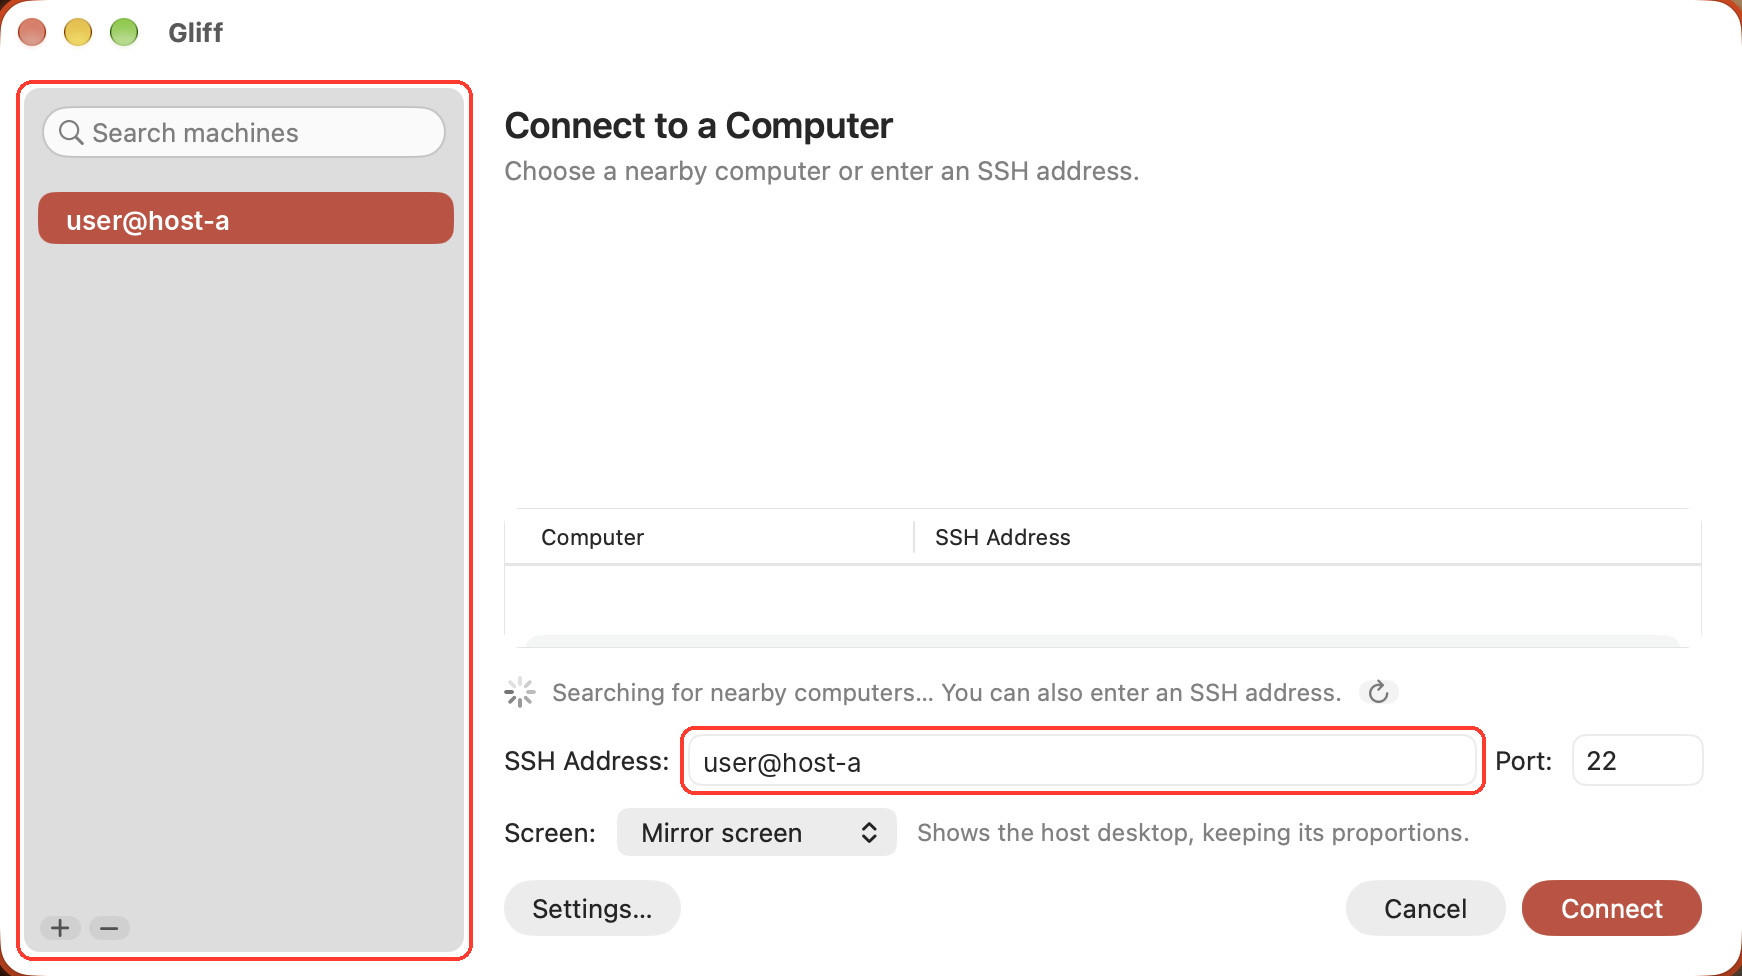
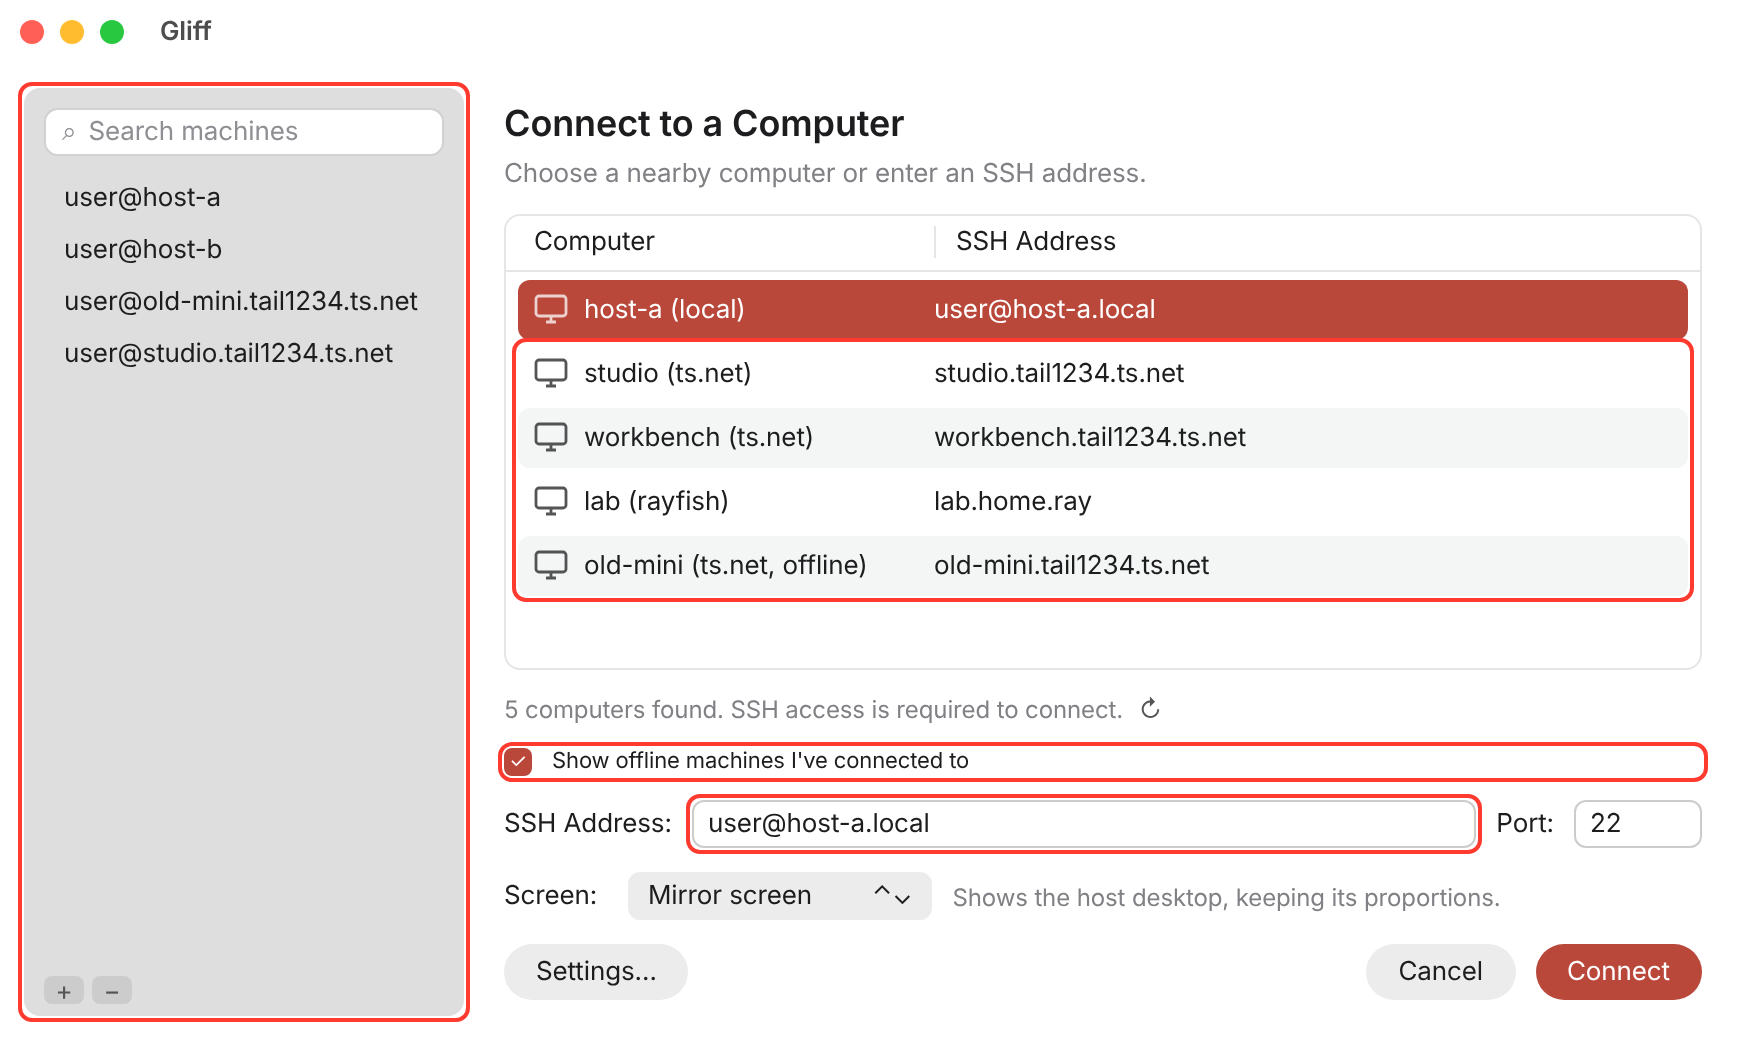
docs: redraw the connection and Settings window images
Rendered HTML mockups (docs/images/src) matching Gliff.swift, with
placeholder machines, replace the older screenshots: mesh peers and
the show-offline checkbox; Connect, Host speakers, Command line and
General in Settings. Captions updated in README and ForkNews.

Claude-Session: https://claude.ai/code/session_01G4VLoM6hjvYsFPeoe3rMWg

diff --git a/docs/images/src/settings-window.html b/docs/images/src/settings-window.html
@@ -1,0 +1,67 @@
+<!doctype html>
+<!-- settings-window.html v1.0.0 — the Mac Settings window, drawn to match
+     SettingsWindow in native/Gliff.swift, for a placeholder machine.
+     Outlined: Connect, Reconnect, Host speakers, the Command line section,
+     and General ▸ Quit Gliff when its last window closes.
+     Render: render.py settings-window.html ../macos-settings-reconnect.png 784 780 -->
+<html><head><meta charset="utf-8"><link rel="stylesheet" href="window.css">
+<style>
+  .sidebar { top: 44px; }
+  .form { position: absolute; left: 252px; right: 20px; top: 52px; bottom: 16px; display: flex; flex-direction: column; gap: 13px; }
+  .header { display: flex; align-items: center; }
+  .header h1 { font-size: 17px; font-weight: 600; flex: 1; }
+  .row .top { display: flex; align-items: center; gap: 8px; }
+  .row .name { width: 120px; text-align: right; }
+  .row .origin { font-size: 11px; color: var(--secondary); white-space: nowrap; }
+  .row .reset { font-size: 11px; font-weight: 600; color: #6e6e73; background: rgba(0,0,0,.06); padding: 1px 7px; border-radius: 5px; }
+  .row .help { margin-left: 128px; font-size: 11px; color: var(--secondary); max-width: 380px; margin-top: 2px; }
+  .note { font-size: 11px; color: var(--secondary); max-width: 480px; }
+  .section-title { font-weight: 600; }
+  .cmd { display: flex; align-items: flex-start; gap: 8px; margin-top: 2px; }
+  .cmd .mono { max-width: 420px; word-break: break-all; }
+  hr { border: none; border-top: .5px solid var(--sep); }
+  .path { font-size: 11px; color: #b0b0b5; }
+</style></head>
+<body><div class="win">
+  <div class="titlebar"><i class="dot" style="background:#ff5f57"></i><i class="dot" style="background:#febc2e"></i><i class="dot" style="background:#28c840"></i><span class="t">Gliff Settings</span></div>
+  <div class="sidebar">
+    <div class="search">⌕ <span>Search machines</span></div>
+    <div class="side-item bold">All Machines</div>
+    <div class="side-item selgray">user@host-a</div>
+    <div class="side-item">user@host-b</div>
+    <div class="side-item">user@old-mini.tail1234.ts.net</div>
+    <div class="side-item">user@studio.tail1234.ts.net</div>
+  </div>
+  <div class="form">
+    <div class="header"><h1>user@host-a</h1><span class="btn" data-hl="connect">Connect</span></div>
+    <div class="secondary" style="font-size:12px;margin-top:-6px">Only this machine. Reset hands an option back to All Machines.</div>
+    <div class="row"><div class="top"><span class="name">Screen</span><span class="popup">Mirror screen <span>⌃⌄</span></span><span class="origin">Default</span></div>
+      <div class="help">Mirror shows the machine's screen; Private makes a separate Linux screen that follows this window.</div></div>
+    <div class="row"><div class="top"><span class="name">Clipboard</span><span class="check on">✓</span><span>Share the clipboard</span><span class="origin">Default</span></div>
+      <div class="help">Copy on one machine and paste on the other. Turn off for machines you do not trust.</div></div>
+    <div class="row" data-hl="reconnect"><div class="top"><span class="name">Reconnect</span><span class="check on">✓</span><span>Reconnect automatically</span><span class="origin">Built-in</span></div>
+      <div class="help">Reopen the machine at launch if it was open at quit, and retry a dropped session. Off, it waits for Reconnect.</div></div>
+    <div class="row" data-hl="speakers"><div class="top"><span class="name">Host speakers</span><span class="check on">✓</span><span>Mute the machine's speakers while I listen</span><span class="origin">Set for this machine</span><span class="reset">Reset</span></div>
+      <div class="help">While Gliff plays the machine's sound, its own speakers stay silent; restored when sound stops or the session ends. Linux hosts with PipeWire.</div></div>
+    <div class="row"><div class="top"><span class="name">Server command</span><span class="field" style="width:250px">~/.local/bin/gliff-server</span><span class="origin">Set for this machine</span><span class="reset">Reset</span></div>
+      <div class="help">Starts the server over SSH, e.g. gliff-server --low-bandwidth. Blank uses the inherited command.</div></div>
+    <div class="note">A screen, host speakers or server command change reconnects the machine; the clipboard and Reconnect change at once. Changes are saved as you make them.</div>
+    <div data-hl="command">
+      <div class="section-title">Command line</div>
+      <div class="note" style="margin-top:6px">Client, from a terminal (logs there)</div>
+      <div class="cmd"><span class="mono">RUST_LOG=info gliff --server-bin '~/.local/bin/gliff-server' --mute-host-speakers user@host-a</span><span class="btn small">Copy</span></div>
+      <div class="note" style="margin-top:6px">Server over SSH, to debug the connection</div>
+      <div class="cmd"><span class="mono">ssh -T -o Compression=no -o IPQoS=lowdelay -- user@host-a '~/.local/bin/gliff-server --stdio '\''--mute-local-audio'\'''</span><span class="btn small">Copy</span></div>
+    </div>
+    <hr>
+    <div data-hl="general">
+      <div class="section-title">General</div>
+      <div class="top" style="display:flex;gap:8px;align-items:center;margin-top:4px"><span class="check off"></span><span>Quit Gliff when its last window closes</span></div>
+      <div class="note" style="margin-top:3px">For Gliff, not one machine. Off: Gliff stays open with no windows; File ▸ New Tab or the Dock icon opens the connection window.</div>
+    </div>
+    <div style="flex:1"></div>
+    <div class="path">Saved in ~/.config/gliff/config.toml</div>
+  </div>
+</div>
+<script src="outline.js"></script>
+</body></html>

diff --git a/docs/images/src/connect-window.html b/docs/images/src/connect-window.html
@@ -1,0 +1,53 @@
+<!doctype html>
+<!-- connect-window.html v1.0.0 — the Mac connection window ("Connect to a
+     Computer"), drawn to match ComputerPicker in native/Gliff.swift, with
+     placeholder machines. Outlined: the known-machines sidebar, the nearby
+     list's local / ts.net / rayfish machines, the offline checkbox, and the
+     SSH Address field (autocomplete).
+     Render: render.py connect-window.html ../macos-connect-machines.png 871 520 -->
+<html><head><meta charset="utf-8"><link rel="stylesheet" href="window.css">
+<style>
+  .content { position: absolute; left: 252px; right: 20px; top: 52px; bottom: 20px; display: flex; flex-direction: column; gap: 12px; }
+  h1 { font-size: 18px; font-weight: 600; }
+  .list { flex: 1; border: .5px solid var(--sep); border-radius: 8px; overflow: hidden; display: flex; flex-direction: column; }
+  .head { height: 28px; display: grid; grid-template-columns: 200px 1fr; align-items: center; border-bottom: .5px solid var(--sep); padding: 0 14px; }
+  .head span + span { border-left: .5px solid var(--sep); padding-left: 10px; }
+  .row { height: 30px; display: grid; grid-template-columns: 200px 1fr; align-items: center; margin: 2px 6px; padding: 0 8px; border-radius: 6px; }
+  .row:nth-child(odd) { background: #f4f5f5; }
+  .row.sel { background: var(--accent); color: #fff; }
+  .row .name { display: flex; align-items: center; gap: 8px; }
+  .row .name svg { width: 17px; height: 15px; opacity: .75; flex: none; }
+  .status { display: flex; align-items: center; gap: 8px; font-size: 12px; }
+  .line { display: flex; align-items: center; gap: 10px; }
+</style></head>
+<body><div class="win">
+  <div class="titlebar"><i class="dot" style="background:#ff5f57"></i><i class="dot" style="background:#febc2e"></i><i class="dot" style="background:#28c840"></i><span class="t">Gliff</span></div>
+  <div class="sidebar" data-hl="sidebar">
+    <div class="search">⌕ <span>Search machines</span></div>
+    <div class="side-item">user@host-a</div>
+    <div class="side-item">user@host-b</div>
+    <div class="side-item">user@old-mini.tail1234.ts.net</div>
+    <div class="side-item">user@studio.tail1234.ts.net</div>
+    <div class="plusminus"><span>+</span><span>−</span></div>
+  </div>
+  <div class="content">
+    <div><h1>Connect to a Computer</h1><div class="secondary" style="margin-top:4px">Choose a nearby computer or enter an SSH address.</div></div>
+    <div class="list">
+      <div class="head"><span>Computer</span><span>SSH Address</span></div>
+      <div style="padding-top:2px">
+        <div class="row sel"><span class="name"><svg viewBox="0 0 17 15"><rect x="1" y="1" width="15" height="10" rx="1.5" fill="none" stroke="currentColor" stroke-width="1.4"/><path d="M6 14h5M8.5 11v3" stroke="currentColor" stroke-width="1.4"/></svg>host-a (local)</span><span>user@host-a.local</span></div>
+        <div class="row" data-hl="mesh"><span class="name"><svg viewBox="0 0 17 15"><rect x="1" y="1" width="15" height="10" rx="1.5" fill="none" stroke="currentColor" stroke-width="1.4"/><path d="M6 14h5M8.5 11v3" stroke="currentColor" stroke-width="1.4"/></svg>studio (ts.net)</span><span>studio.tail1234.ts.net</span></div>
+        <div class="row" data-hl="mesh"><span class="name"><svg viewBox="0 0 17 15"><rect x="1" y="1" width="15" height="10" rx="1.5" fill="none" stroke="currentColor" stroke-width="1.4"/><path d="M6 14h5M8.5 11v3" stroke="currentColor" stroke-width="1.4"/></svg>workbench (ts.net)</span><span>workbench.tail1234.ts.net</span></div>
+        <div class="row" data-hl="mesh"><span class="name"><svg viewBox="0 0 17 15"><rect x="1" y="1" width="15" height="10" rx="1.5" fill="none" stroke="currentColor" stroke-width="1.4"/><path d="M6 14h5M8.5 11v3" stroke="currentColor" stroke-width="1.4"/></svg>lab (rayfish)</span><span>lab.home.ray</span></div>
+        <div class="row" data-hl="mesh"><span class="name"><svg viewBox="0 0 17 15"><rect x="1" y="1" width="15" height="10" rx="1.5" fill="none" stroke="currentColor" stroke-width="1.4"/><path d="M6 14h5M8.5 11v3" stroke="currentColor" stroke-width="1.4"/></svg>old-mini (ts.net, offline)</span><span>old-mini.tail1234.ts.net</span></div>
+      </div>
+    </div>
+    <div class="status secondary"><span>5 computers found. SSH access is required to connect.</span><span style="color:#555">↻</span></div>
+    <div class="line" style="font-size:11px" data-hl="offline"><span class="check on">✓</span>Show offline machines I've connected to</div>
+    <div class="line"><span style="width:84px">SSH Address:</span><span class="field" style="flex:1" data-hl="address">user@host-a.local</span><span>Port:</span><span class="field" style="width:64px">22</span></div>
+    <div class="line"><span style="width:52px">Screen:</span><span class="popup">Mirror screen <span>⌃⌄</span></span><span class="secondary" style="font-size:12px">Shows the host desktop, keeping its proportions.</span></div>
+    <div class="line"><span class="btn">Settings…</span><span style="flex:1"></span><span class="btn">Cancel</span><span class="btn default">Connect</span></div>
+  </div>
+</div>
+<script src="outline.js"></script>
+</body></html>

diff --git a/docs/images/src/window.css b/docs/images/src/window.css
@@ -1,0 +1,32 @@
+/* window.css v1.0.0 — shared macOS look for the window mockups
+   (connect-window.html, settings-window.html), light appearance, red accent
+   as in the screenshots; Inter stands in for SF Pro. */
+:root { --accent: #B9483B; --hl: #FF3B30; --sep: rgba(0,0,0,.1); --label: #1d1d1f; --secondary: #808085; }
+* { box-sizing: border-box; margin: 0; padding: 0; }
+body { font: 13px/1.25 "Inter", -apple-system, sans-serif; color: var(--label); background: #fff;
+       -webkit-font-smoothing: antialiased; letter-spacing: -0.06px; overflow: hidden; }
+.win { position: absolute; inset: 0; background: #fff; border-radius: 10px; overflow: hidden; }
+.titlebar { height: 32px; display: flex; align-items: center; gap: 8px; padding-left: 10px; }
+.dot { width: 12px; height: 12px; border-radius: 50%; }
+.titlebar .t { margin-left: 10px; font-weight: 600; color: #4d4d4d; }
+.sidebar { position: absolute; left: 12px; top: 44px; bottom: 12px; width: 220px; background: #dedede; border-radius: 8px; padding: 10px 0; }
+.search { margin: 0 10px 8px; height: 24px; border-radius: 7px; background: #fff; border: .5px solid rgba(0,0,0,.18);
+          display: flex; align-items: center; gap: 6px; padding: 0 8px; color: #8e8e93; }
+.side-item { margin: 0 8px; height: 26px; display: flex; align-items: center; padding: 0 12px; border-radius: 6px; white-space: nowrap; }
+.side-item.sel { background: var(--accent); color: #fff; font-weight: 600; }
+.side-item.bold { font-weight: 600; }
+.side-item.selgray { background: rgba(0,0,0,.1); }
+.plusminus { position: absolute; left: 10px; bottom: 6px; display: flex; gap: 4px; }
+.plusminus span { width: 20px; height: 14px; border-radius: 4px; background: rgba(0,0,0,.08); display: grid; place-items: center; font-size: 13px; color: #555; }
+.secondary { color: var(--secondary); }
+.btn { height: 28px; padding: 0 16px; border-radius: 14px; background: #ececec; display: inline-flex; align-items: center; font-size: 13px; }
+.btn.default { background: var(--accent); color: #fff; }
+.btn.small { height: 20px; padding: 0 9px; border-radius: 5px; font-size: 11px; }
+.field { height: 24px; border: .5px solid rgba(0,0,0,.2); border-radius: 6px; padding: 0 7px; display: flex; align-items: center; background: #fff; }
+.popup { height: 24px; border-radius: 6px; background: #ececec; padding: 0 10px; display: inline-flex; align-items: center; gap: 30px; }
+.check { width: 14px; height: 14px; border-radius: 4px; display: inline-grid; place-items: center; font-size: 10px; color: #fff; flex: none; }
+.check.on { background: var(--accent); }
+.check.off { border: 1px solid rgba(0,0,0,.3); background: #fff; }
+.mono { font-family: "DejaVu Sans Mono", ui-monospace, monospace; font-size: 10.5px; }
+/* feature outline: 2 pt systemRed */
+.hl { position: absolute; border: 2px solid var(--hl); border-radius: 7px; pointer-events: none; }

diff --git a/docs/images/src/outline.js b/docs/images/src/outline.js
@@ -1,0 +1,16 @@
+//= outline.js v1.0.0 — draw the red feature outlines around elements with
+//= data-hl="group": one box per group, around all its elements, padded.
+(function () {
+  const groups = {};
+  document.querySelectorAll('[data-hl]').forEach(el => {
+    (groups[el.dataset.hl] = groups[el.dataset.hl] || []).push(el.getBoundingClientRect());
+  });
+  Object.values(groups).forEach(rs => {
+    const pad = 3;
+    const l = Math.min(...rs.map(r => r.left)) - pad, t = Math.min(...rs.map(r => r.top)) - pad;
+    const r = Math.max(...rs.map(r => r.right)) + pad, b = Math.max(...rs.map(r => r.bottom)) + pad;
+    const d = document.createElement('div'); d.className = 'hl';
+    Object.assign(d.style, { left: l + 'px', top: t + 'px', width: (r - l) + 'px', height: (b - t) + 'px' });
+    document.body.appendChild(d);
+  });
+})();

diff --git a/docs/images/src/render.py b/docs/images/src/render.py
@@ -1,6 +1,7 @@
 #!/usr/bin/env python3
-#= render.py v1.0.0 — render an HTML mockup to a @2x PNG with Playwright.
-#= Usage: render.py IN.html OUT.png
+#= render.py v1.1.0 — render an HTML mockup to a @2x PNG with Playwright.
+#= Usage: render.py IN.html OUT.png [WIDTH HEIGHT]
+#= WIDTH/HEIGHT are CSS points (default 760×400); the PNG is twice that.
 import logging
 import sys
 from pathlib import Path
@@ -12,17 +13,23 @@ LOG = logging.getLogger("render")
 
 def main(argv):
     logging.basicConfig(level=logging.INFO, format="%(levelname)s %(name)s: %(message)s")
-    if len(argv) != 2 or not Path(argv[0]).is_file():
-        LOG.error("usage: render.py IN.html OUT.png"); return 2
+    if len(argv) not in (2, 4) or not Path(argv[0]).is_file():
+        LOG.error("usage: render.py IN.html OUT.png [WIDTH HEIGHT]"); return 2
+    try:
+        width, height = (int(argv[2]), int(argv[3])) if len(argv) == 4 else (760, 400)
+    except ValueError:
+        LOG.error("WIDTH and HEIGHT must be whole numbers"); return 2
+    if not (100 <= width <= 4000 and 100 <= height <= 4000):
+        LOG.error("WIDTH and HEIGHT must be between 100 and 4000"); return 2
     src, out = Path(argv[0]).resolve(), Path(argv[1])
     with sync_playwright() as p:
         browser = p.chromium.launch()
-        page = browser.new_page(viewport={"width": 760, "height": 400}, device_scale_factor=2)
+        page = browser.new_page(viewport={"width": width, "height": height}, device_scale_factor=2)
         page.goto(src.as_uri())
         page.wait_for_timeout(300)  #= fonts and the outline script
         page.screenshot(path=str(out))
         browser.close()
-    LOG.info("wrote %s", out)
+    LOG.info("wrote %s (%dx%d pt)", out, width, height)
     return 0
 
 

diff --git a/README.md b/README.md
@@ -77,19 +77,19 @@ This fork ([LaurentFough/gliff](https://github.com/LaurentFough/gliff)) builds o
 
 ### Screenshots
 
-The new features are outlined in red.
+The new features are outlined in red. The connection and Settings windows are rendered mockups drawn to match the code (`docs/images/src/`), with placeholder machines.
 
-**Connection window:** known machines in a sidebar (search, **+** to add, **−** to forget); the SSH Address field autocompletes from them.
+**Connection window:** known machines in a sidebar (search, **+** to add, **−** to forget); the SSH Address field autocompletes from them. Mesh peers (Tailscale/Headscale `ts.net`, Rayfish) are listed by hostname with their source, and **Show offline machines I've connected to** adds known peers that are offline.
 
-<img src="docs/images/macos-connect-machines.png" width="871" alt="Connect to a Computer window with the known-machines sidebar and the SSH Address field">
+<img src="docs/images/macos-connect-machines.png" width="871" alt="Connect to a Computer window with the known-machines sidebar, mesh peers labelled by source, the show-offline checkbox and the SSH Address field">
 
 **Tabs:** this shows two tabs in one window, one connection each (outlined separately). Any number of tabs is supported: **+** or File ▸ New Tab opens another connection.
 
 ![Two Gliff tabs, one per machine, with the + button](docs/images/macos-tabs.png)
 
-**Reconnect in Settings:** per machine, or for all machines. (Taken before the Host speakers row and the Command line section were added.)
+**Settings:** per machine, or for all machines: **Connect** from the selected machine, **Reconnect automatically**, **Host speakers** (mute the machine's speakers while you listen), the **Command line** that reproduces the machine's settings (client and server over SSH, each with Copy), and **General ▸ Quit Gliff when its last window closes**.
 
-<img src="docs/images/macos-settings-reconnect.png" width="784" alt="Gliff Settings with the Reconnect automatically row">
+<img src="docs/images/macos-settings-reconnect.png" width="784" alt="Gliff Settings with Connect, Reconnect, Host speakers, Command line and General quit options">
 
 **'Machine' menu:** Play Sound, Reconnect and Reconnect Automatically.
 

diff --git a/ForkNews.md b/ForkNews.md
@@ -53,19 +53,19 @@ A quick look at what this fork adds. The README carries the same list; [ToDone.m
 
 ## Screenshots
 
-The new features are outlined in red.
+The new features are outlined in red. The connection and Settings windows are rendered mockups drawn to match the code (`docs/images/src/`), with placeholder machines.
 
-**Connection window:** known machines in a sidebar (search, **+** to add, **−** to forget); the SSH Address field autocompletes from them.
+**Connection window:** known machines in a sidebar (search, **+** to add, **−** to forget); the SSH Address field autocompletes from them. Mesh peers (Tailscale/Headscale `ts.net`, Rayfish) are listed by hostname with their source, and **Show offline machines I've connected to** adds known peers that are offline.
 
-<img src="docs/images/macos-connect-machines.png" width="871" alt="Connect to a Computer window with the known-machines sidebar and the SSH Address field">
+<img src="docs/images/macos-connect-machines.png" width="871" alt="Connect to a Computer window with the known-machines sidebar, mesh peers labelled by source, the show-offline checkbox and the SSH Address field">
 
 **Tabs:** this shows two tabs in one window, one connection each (outlined separately). Any number of tabs is supported: **+** or File ▸ New Tab opens another connection.
 
 ![Two Gliff tabs, one per machine, with the + button](docs/images/macos-tabs.png)
 
-**Reconnect in Settings:** per machine, or for all machines. (Taken before the Host speakers row and the Command line section were added.)
+**Settings:** per machine, or for all machines: **Connect** from the selected machine, **Reconnect automatically**, **Host speakers** (mute the machine's speakers while you listen), the **Command line** that reproduces the machine's settings (client and server over SSH, each with Copy), and **General ▸ Quit Gliff when its last window closes**.
 
-<img src="docs/images/macos-settings-reconnect.png" width="784" alt="Gliff Settings with the Reconnect automatically row">
+<img src="docs/images/macos-settings-reconnect.png" width="784" alt="Gliff Settings with Connect, Reconnect, Host speakers, Command line and General quit options">
 
 **'Machine' menu:** Play Sound, Reconnect and Reconnect Automatically.
 

diff --git a/ToDone.md b/ToDone.md
@@ -228,6 +228,9 @@ Support today:
 
 Newest first. Format: `### YYYY-MM-DD — summary (commit)`, then a line or two.
 
+### 2026-11-03 — Screenshots: connection and Settings windows redrawn
+Rendered mockups (HTML + Playwright, `docs/images/src/`: window.css, outline.js, connect-window.html, settings-window.html; render.py 1.1.0 takes a size) replace the two older shots. Connection window: mesh peers labelled (ts.net)/(rayfish), offline row, show-offline checkbox. Settings: Connect, Reconnect, Host speakers, Command line, General ▸ quit on last window. README and ForkNews captions and alt text updated.
+
 ### 2026-11-03 — README: mesh machines throughout
 Status row for mesh machines; the detailed note covers the labels, online-only lists, the offline checkbox and `gliff --mesh`; Use shows the `--mesh` commands; "If something does not work" points to `gliff --mesh --offline` and `gliff-enable-discovery`. ForkNews matches.
 
